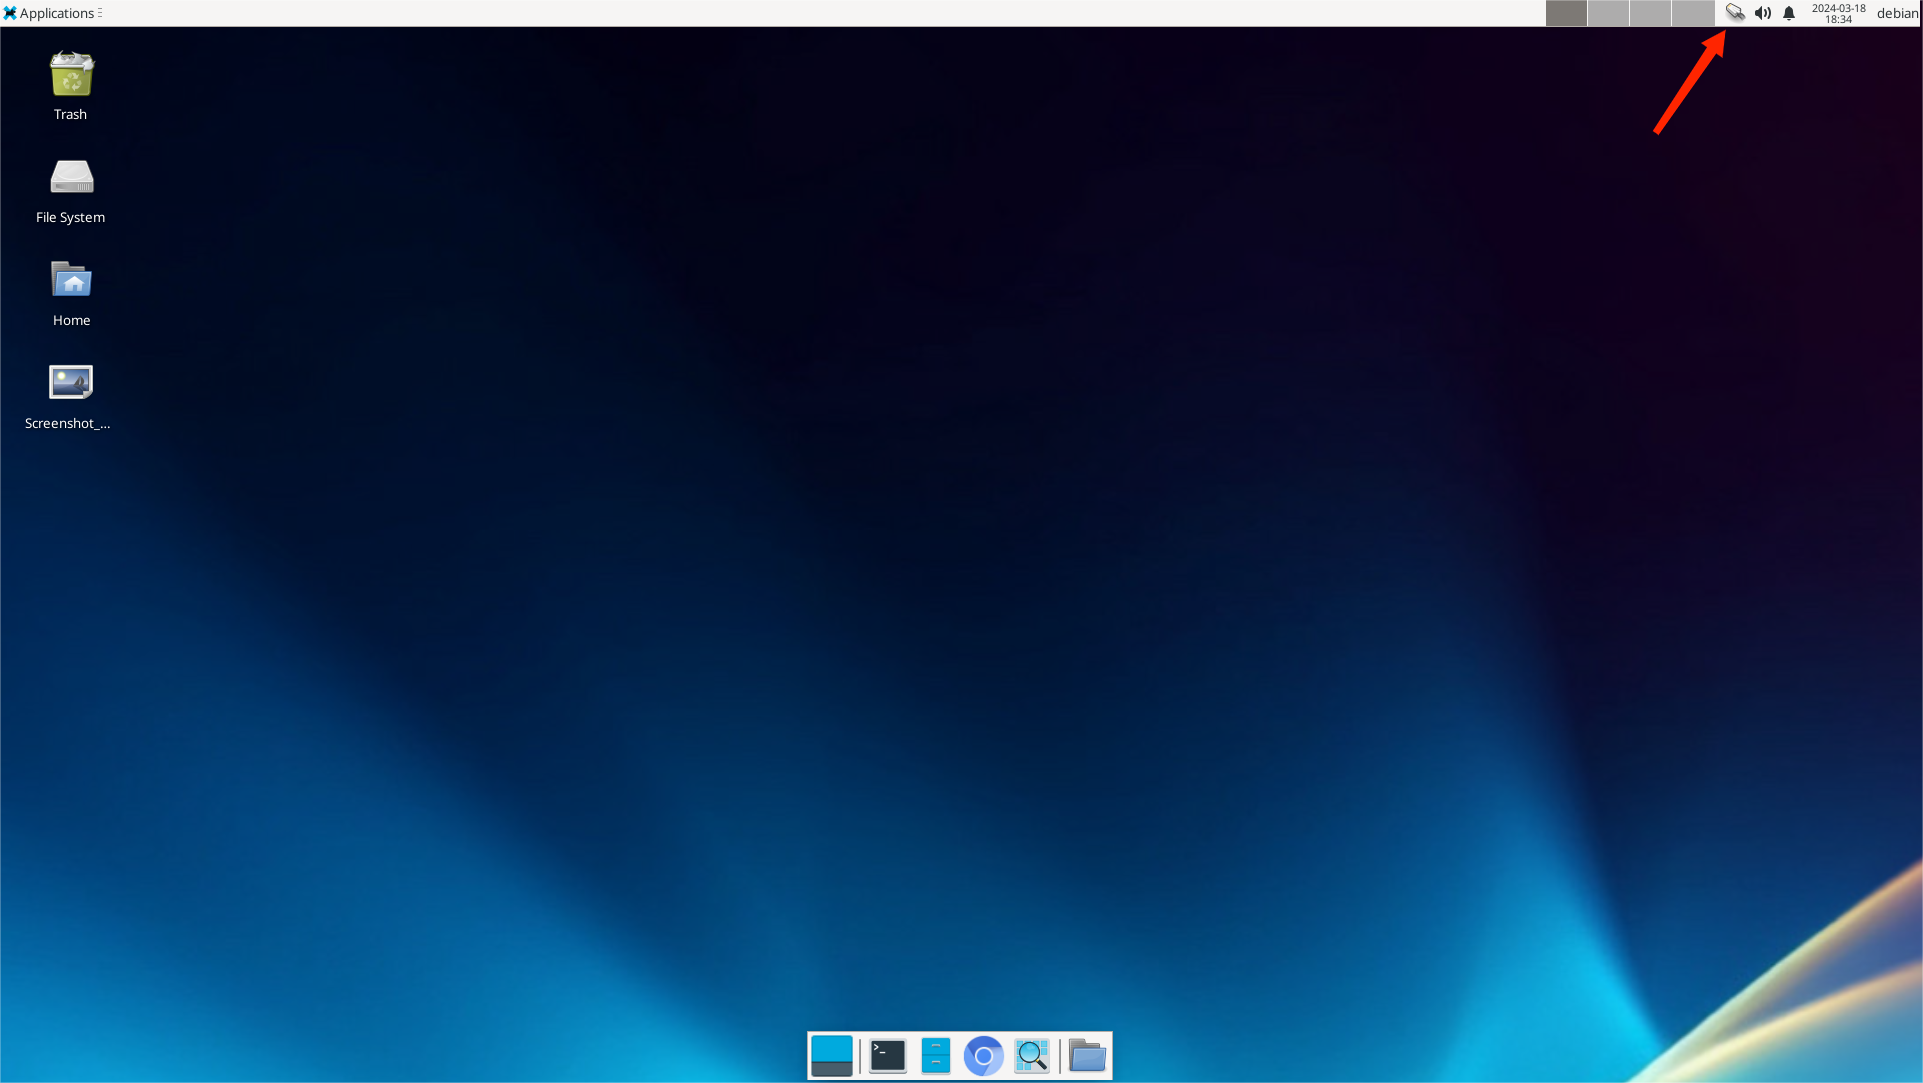
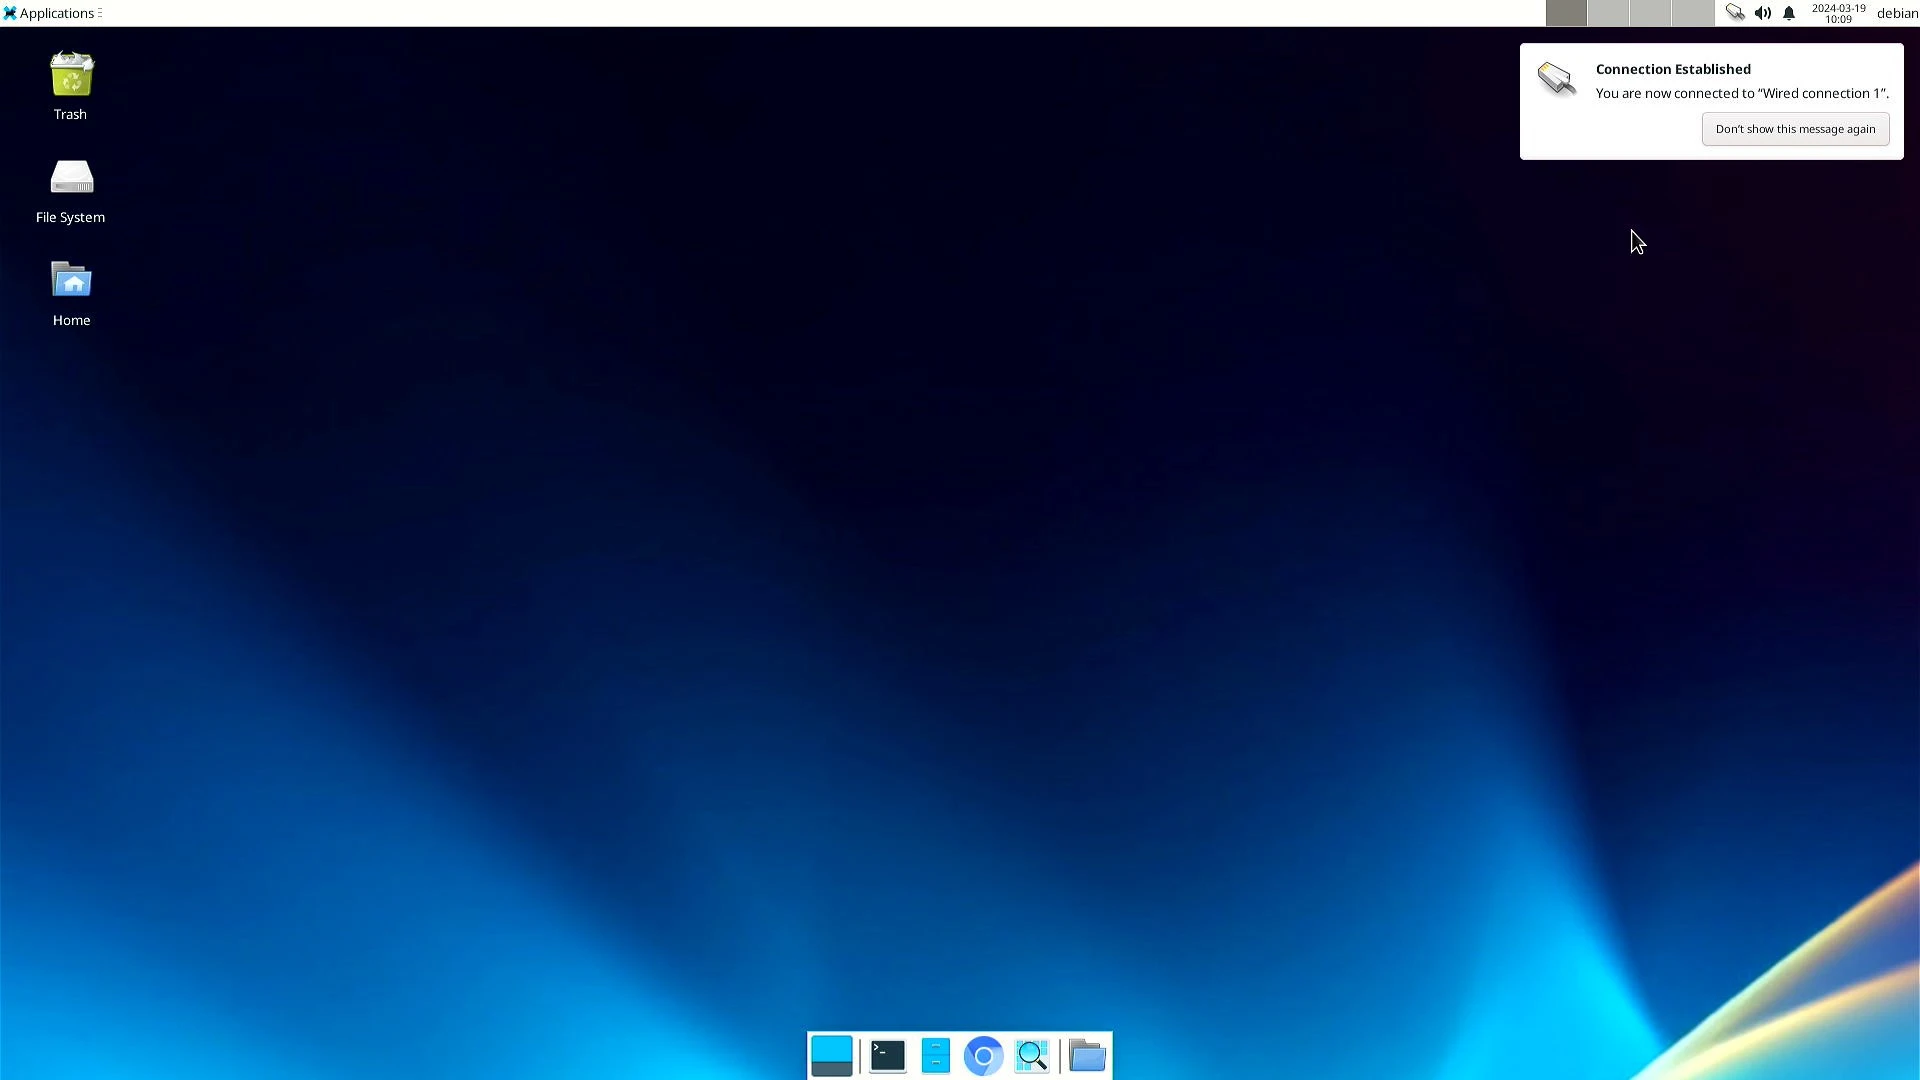
meles: add wifi connect to desktop.md

diff --git a/docs/meles/getting-started/desktop.md b/docs/meles/getting-started/desktop.md
@@ -20,10 +20,11 @@ Login screen requires user name and password。
 
 Meles can be connected to the network via Ethernet and WIFI.
 
-- Enternet connection
-  - Connect the network cable to the Meles' Ethernet port.
+### Enternet connection
 
-- The status of the icon displayed in the upper left corner of the desktop when connecting to the network cable
+Connect the network cable to the Meles' Ethernet port.
+
+The status of the icon displayed in the upper left corner of the desktop when connecting to the network cable
 
 - Status when the cable is not connected
 
@@ -32,3 +33,17 @@ Meles can be connected to the network via Ethernet and WIFI.
 - Status when the network cable is connected
 
 ![ethernet-connect](/docs/meles/ethernet-connect.webp)
+
+### WIFI connection
+
+Meles with on-board WIFI module to support WIFI connectivity
+
+- Click the icon in the upper right corner to view the wireless network you want to connect to from the status bar.
+
+![wifi-connect-1](/docs/meles/wifi-connect-1.webp)
+
+- Enter the password and click connect to connect to the WIFI.
+
+![wifi-connect-2](/docs/meles/wifi-connect-2.webp)
+
+![wifi-connect-3](/docs/meles/wifi-connect-3.webp)
